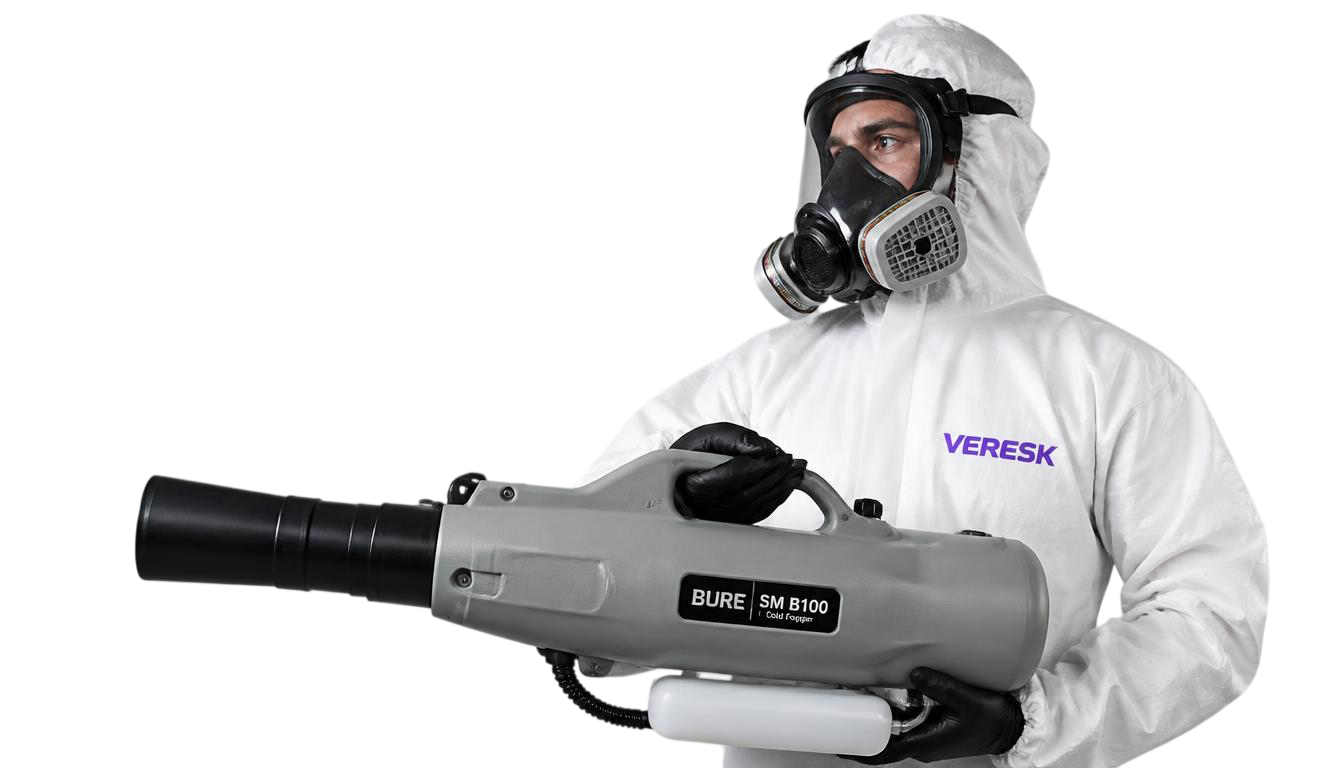
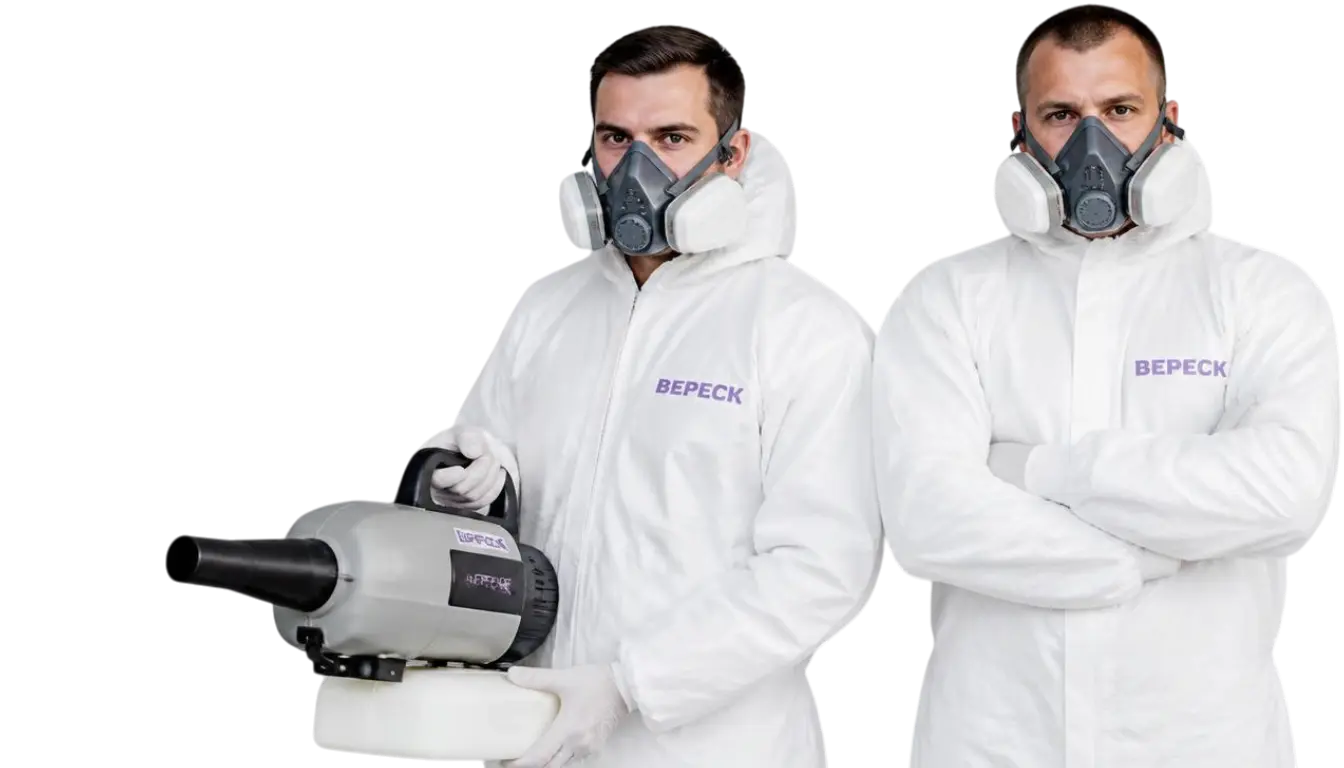
feat(assets/css): add comment about hero layout z-index positioning
feat(assets/img): add violet hero image and webp variant

diff --git a/assets/css/style.css b/assets/css/style.css
@@ -789,7 +789,8 @@ body.dark-theme .yandex-score {
     overflow: visible;
     box-shadow: none;
     /* box-shadow: var(--shadow-img); */
-    /* ниже .hero-layout (z-index:10) — фон под контентом */
+    /* выше .hero-layout (z-index:10): нижняя кромка фото перекрывает верх CTA.
+       Геометрически фото стоит в правой колонке — левый текст/триггеры не задеты. */
     z-index: 0;
     pointer-events: none;
     transition: border 0.4s, background 0.4s;
